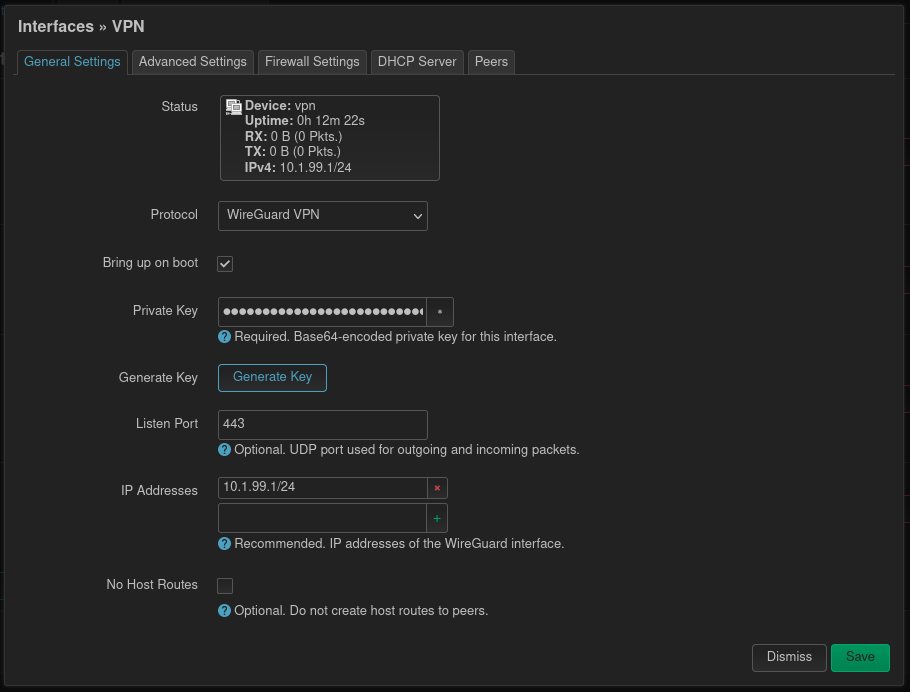
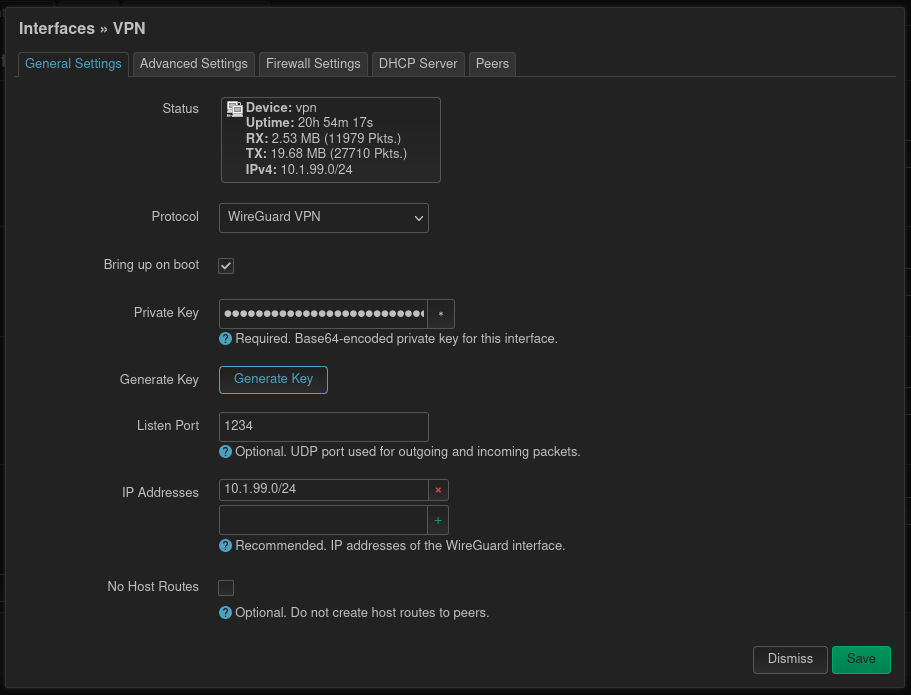
feat: publish wire guard on openwrt post

diff --git a/content/data/blog/2022/set-up-wireguard-on-openwrt.en.md b/content/data/blog/2022/set-up-wireguard-on-openwrt.en.md
@@ -1,41 +1,65 @@
 ---
 title: Set up Wireguard on OpenWrt
-publishedAt: 2022-08-04T14:00:37.609Z
+publishedAt: 2022-08-05T14:00:37.609Z
 tags:
   - OpenWRT
   - Router
   - Local Area Network
   - Wireless LAN
   - Virtual Private Network
-modifiedAt: 2022-08-04T16:21:49.737Z
-draft: true
+modifiedAt: 2022-08-05T14:23:39.245Z
+draft: false
 featured: tp-link-archer-a7.jpg
 ---
 
-Wireguard offers a modern implementation of a virtual private network (VPN) and it can be easily set up on a OpenWrt router. The following covers the steps for doing so. In OpenWrts Wiki is [this](https://openwrt.org/docs/guide-user/services/vpn/wireguard/basics) page, which gives also some hints how to set it up.
+Wireguard offers a modern virtual private network (VPN) implementation, which was with [version 5.6](https://www.phoronix.com/review/linux-56-features) incorporated into the Linux kernel. It can be easily set up on a OpenWrt router, server or client wise. The following covers the steps for setting it up as a server. OpenWrts Wiki contains [this](https://openwrt.org/docs/guide-user/services/vpn/wireguard/basics) page, which has some hints, but isn't that elaborative about it.
 
-# Install packages
+## Install packages
 
-After login in into OpenWrts administrator interface LuCI the packages `luci-proto-wireguard` and `luci-app-wireguard` need to be installed. For `luci-app-wireguard` a language package needs to be installed as well. Otherwise the `Wireguard` page won't show up in the `Status` menu. In my case I've installed `luci-i18n-wireguard-en`. The installation of the mentioned packages can be done via the main menu `System` and its entry `Software`. The first one adds the possibility to configure Wireguard interfaces and the other one adds an information page to the administration panel.
+After login in into OpenWrts administrator interface LuCI the packages `luci-proto-wireguard` and `luci-app-wireguard` need to be installed. The first one adds the possibility to configure Wireguard interfaces. For `luci-app-wireguard` a language package needs to be installed as well, otherwise the `Wireguard` page won't show up in the `Status` menu. This page contains some status information about the current Wireguard "situation". In my case I've installed `luci-i18n-wireguard-en`. Furthermore if you want that the QR Code is displayed on the `Wireguard` page, install the package `qrencode` as well. The installation of the mentioned packages can be done via the main menu `System` and its entry `Software`.
 
 ![Searching for wireguard packages](openwrt-search-and-install-packages.png)
 
-# Configure the Wireguard interface
+## Configure the Wireguard interface
 
-To be able to configure the Wireguard interface the network service needs to be restarted, so it picks up the newly installed protocol from `lucy-proto-wireguard`. This can be done via the `Startup` page in the `System` menu. There you find the `network` service, which should be restarted.
+To be able to configure the Wireguard interface the network service needs to be restarted, after the packages are installed, so it picks up the newly installed protocol from `lucy-proto-wireguard`. This can be done via the `Startup` page in the `System` menu. There you find the `network` service, which should be restarted.
 
-Now it's time to create a new network interface for the VPN. A new interface can be created with the button at the bottom on the `Network / Interfaces` page. First a name for the interface should be picked. `vpn` should do the job. For the protocol we choose `Wireguard VPN`.
+![Restart network service](openwrt-startup-restart-network.png)
+
+Now it's time to create a new network interface for the VPN. A new interface can be created with the button at the bottom on the `Network / Interfaces` page. First a name for the interface should be picked. `vpn0` or `wg0` does the job. For the protocol `Wireguard VPN` is chosen.
 
 ![Create Wireguard interface](openwrt-create-wireguard-interface.png)
 
-In the next form, the private key, from which the peers public keys will be derived, can be generated. As in most public networks not all ports are permitted, I usually choose 443 as this is usually open for HTTPS traffic. Last the ip addresses of this interface should be configured.
+In the next form, the private key, from which the peers public keys will be derived, can be generated by clicking the button under the field. The internal port we set to `1234` or something else, which is not used by router. Last but not least the IP network of this interface should be configured.
 
 ![Configure Wireguard interface](openwrt-configure-wireguard-interface.png)
 
-# Add peers
+Change to the `Advanced Settings` at the top. It's a good idea to define a fixed DNS server, so this doesn't need to be configured on the peers (clients). If there is no separate DNS server, it's sufficient to provide the routers IP address.
 
-With the private key and the `wireguard-tools` the public key is generated:
+![Configure Wireguard DNS](openwrt-configure-wireguard-dns.png)
 
-```
-echo "oKhIaA9iS2T89a9hnwMdfv2AXL8TIyU/rcEVo=" | wg pubkey
-```
+For the `Firewall Settings`, the question needs to be asked, with whom VPN clients are allowed to communicate? If the clients can communicate with other clients on the local area network select `LAN` and if the vpn acts as a internet proxy `WAN` can be selected. Maybe other configurations make sense here.
+
+![Configure Wireguard Firewall](openwrt-configure-wireguard-firewall.png)
+
+## Configure port forwarding
+
+After saving and applying the new Wireguard interface, it's time to set up a port forwarding rule on the firewall. This page can be found under `Network` and then `Firewall`. As in most public networks not all ports are permitted, I usually choose `443` as this is usually open for HTTPS traffic. For even better result, Wireguard should be configured to use TCP instead of UDP.
+
+This means the external port can be set to `443` and the internal to the port, where Wireguard is running on. The internal IP address also points to the device, where Wireguard is installed, which is in this case the router itself.
+
+![Configure port forwarding](openwrt-configure-port-forwarding-for-wireguard.png)
+
+## Add peers (clients)
+
+Finally it's time to add some peers. On the `Wireguard` page which can be opened through the `Status` menu, there should a QR Code be shown. The official Wireguard smartphone apps can scan this code.
+
+![Show the QR Code of the Wireguard configuration](openwrt-wireguard-status-page.png)
+
+After scanning this code you will be asked, how the tunnel should be named. Set a static internal IP address for this peer. If the Wireguard server is behind a NAT, what is very often the case, set the `Persistent Keepalive` to `25`. Set the `Endpoint` to the WAN (public internet IP) of the router where the Wireguard server is installed.
+
+With the public key and the other information this peer can now permitted to access the Wireguard server. In the previously created Wireguard interface (`Network` menu and `Interfaces`, then `Edit`), a new peer should be created with the public key from the peer.
+
+![Add a peer](openwrt-wireguard-add-a-peer.png)
+
+With this all the configuration is done and the testing with the first peer can begin.
